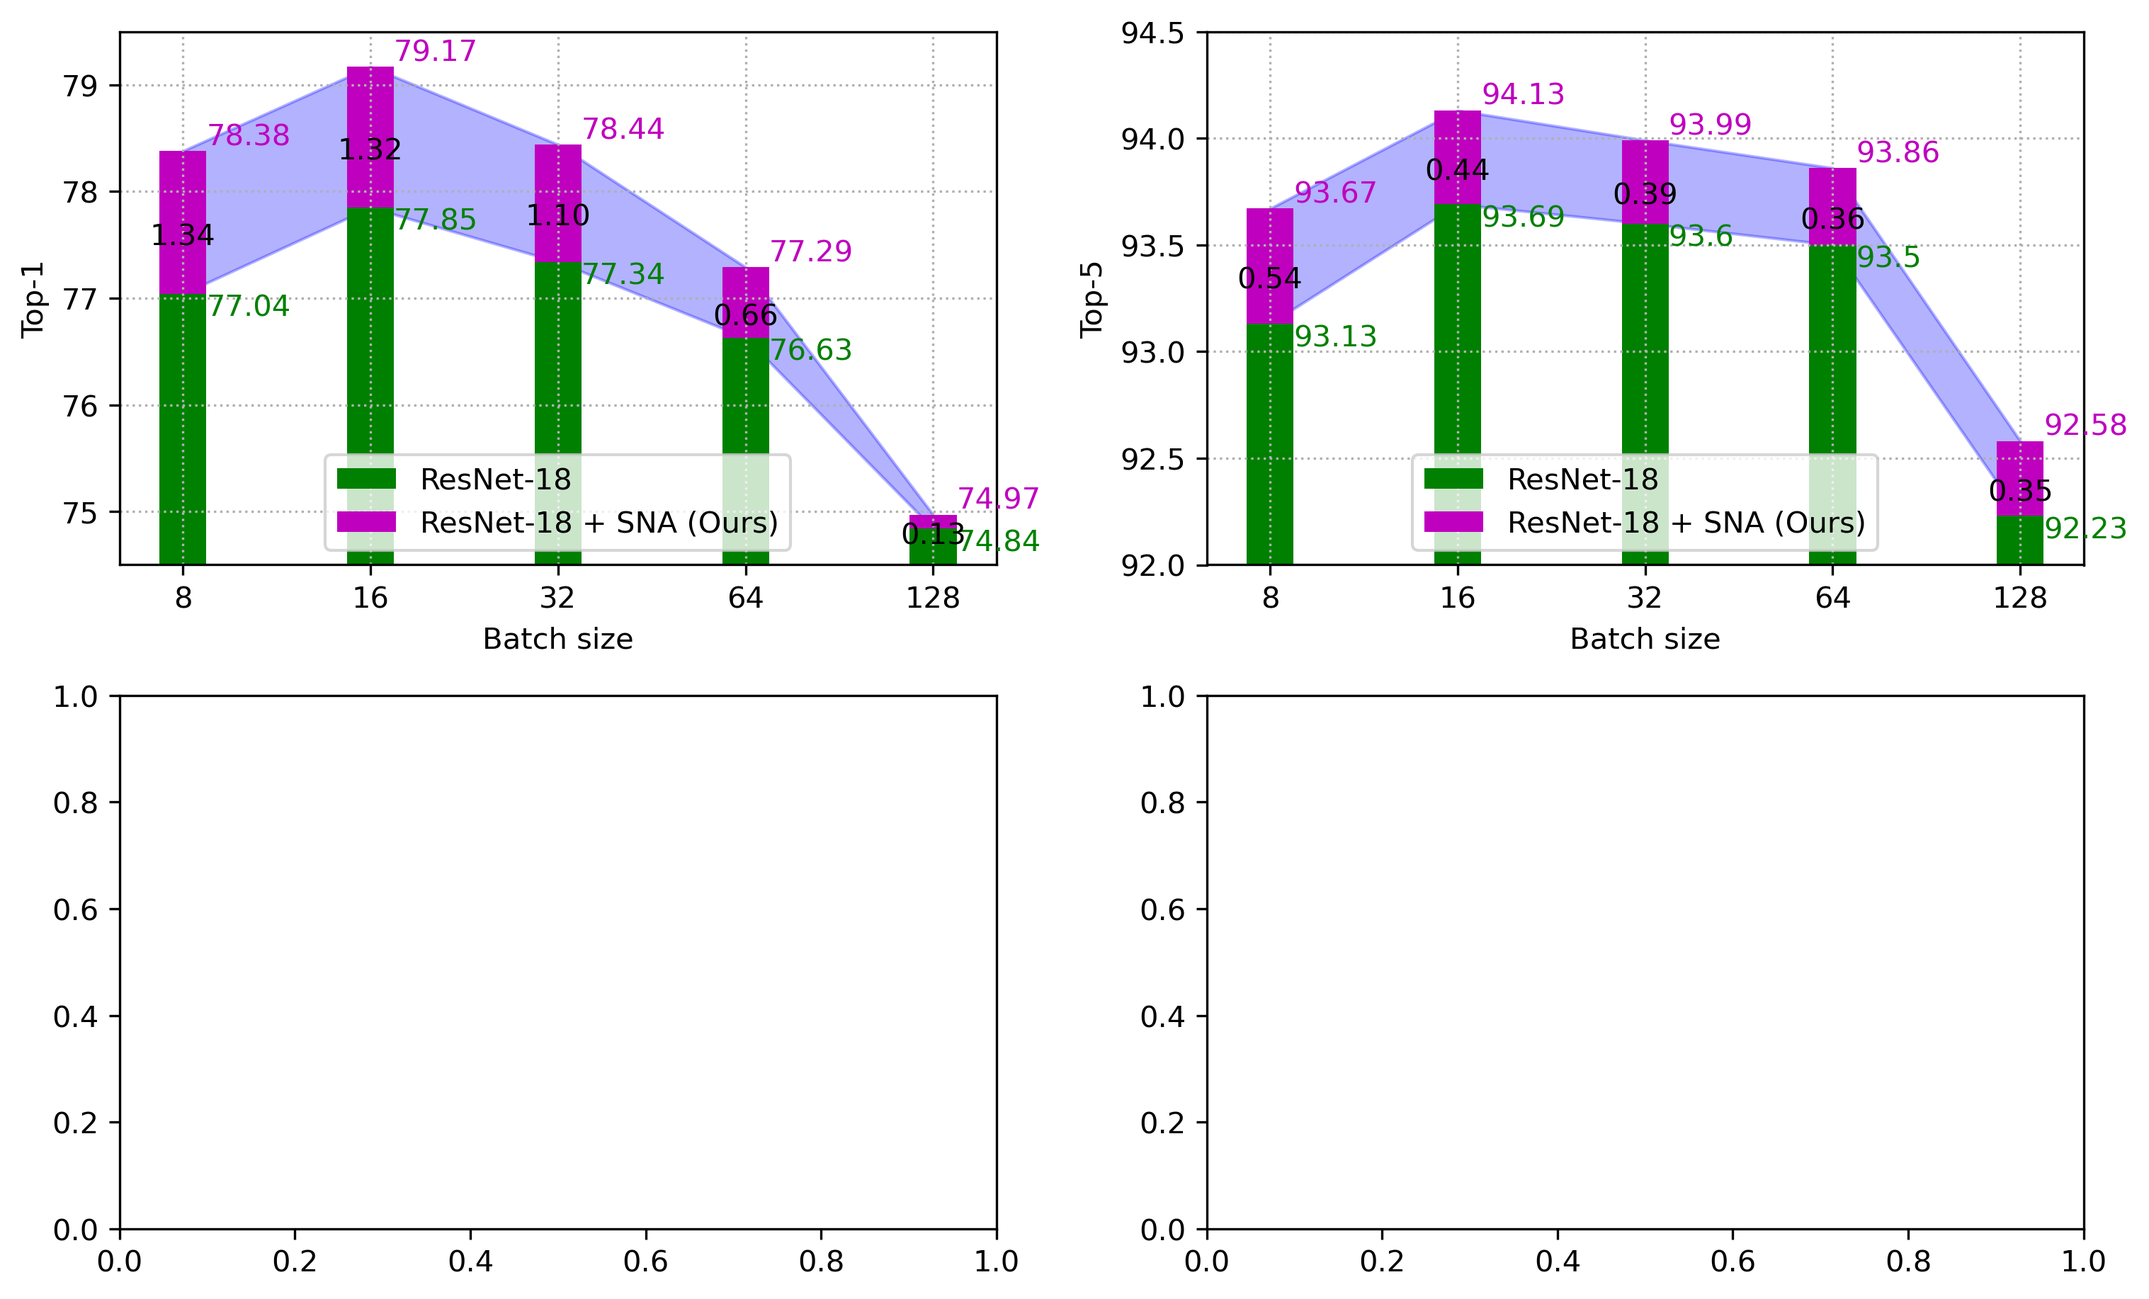
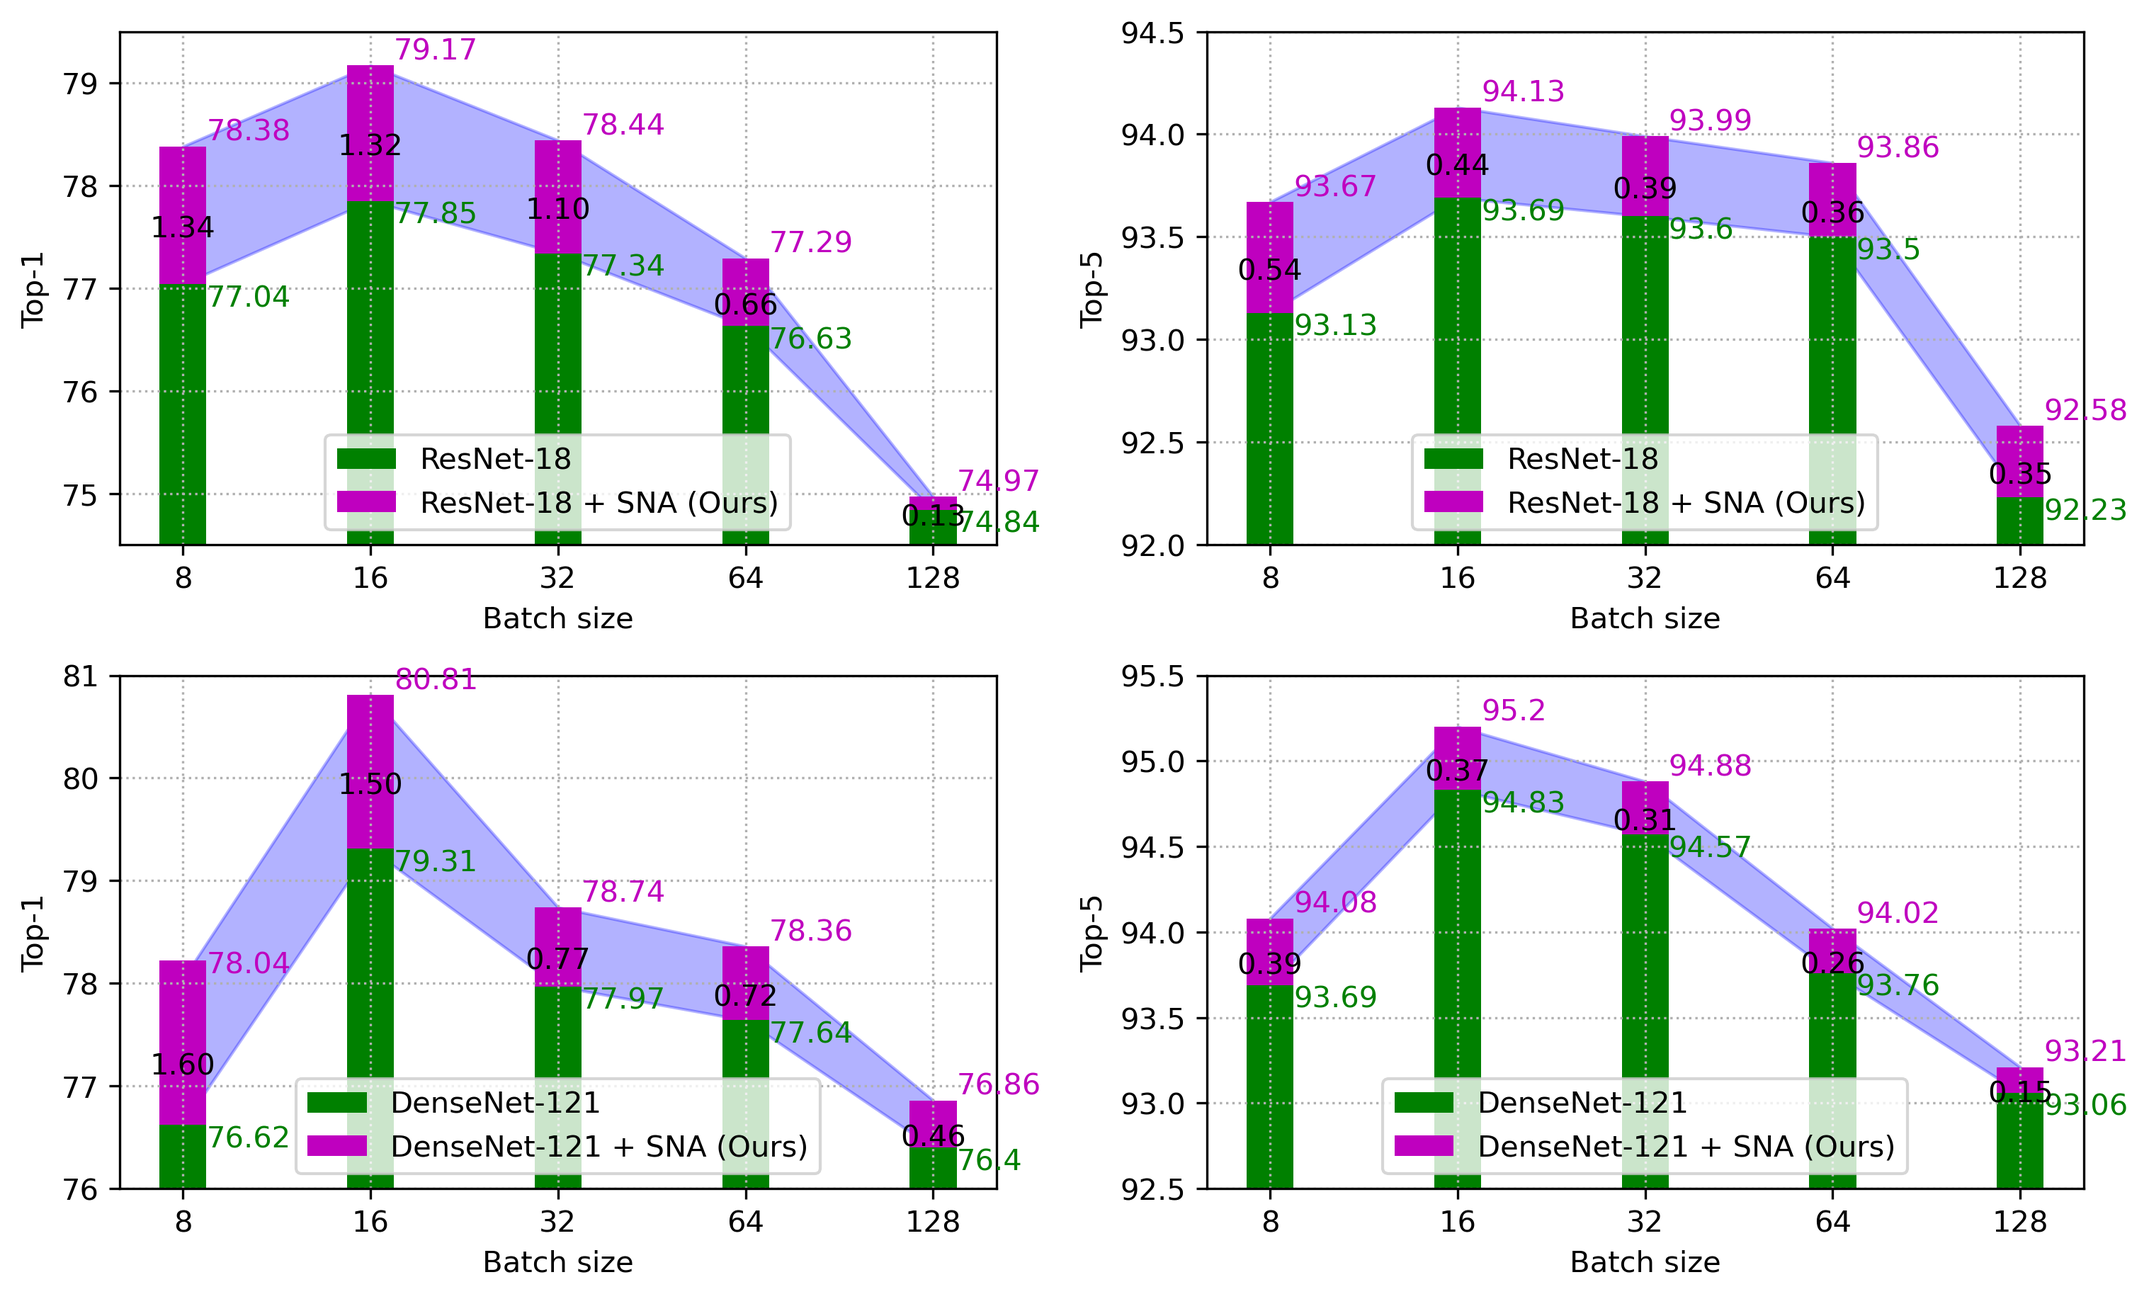
1016

diff --git a/utils/cifar_batch.py b/utils/cifar_batch.py
@@ -32,6 +32,7 @@ def vis_batch_performance():
     x1 = np.arange(len(x_ticks))
     barWidth = 0.25
     x2 = [x + barWidth for x in x1]
+
     #ResNet-top1
     resnet_top1 = [77.04, 77.85, 77.34, 76.63, 74.84] #y_axies
     resnet_sna_top1 = [78.38, 79.17, 78.44, 77.29, 74.97]
@@ -40,6 +41,16 @@ def vis_batch_performance():
     resnet_top5 = [93.13, 93.69, 93.60, 93.50, 92.23] #y_axies
     resnet_sna_top5 = [93.67, 94.13, 93.99, 93.86, 92.58]
     gain_top5 = [0.54, 0.44, 0.39, 0.36, 0.35]
+
+    #DenseNet-top1
+    densenet_top1 = [76.62, 79.31, 77.97, 77.64, 76.40] #y_axies
+    densenet_sna_top1 = [78.04, 80.81, 78.74, 78.36, 76.86]
+    densenet_gain_top1 = [1.6, 1.5, 0.77, 0.72, 0.46]
+    #DenseNet-top5
+    densenet_top5 = [93.69, 94.83, 94.57, 93.76, 93.06] #y_axies
+    densenet_sna_top5 = [94.08, 95.20, 94.88, 94.02, 93.21]
+    densenet_gain_top5 = [0.39, 0.37, 0.31, 0.26, 0.15]
+
 
     fig, axes = plt.subplots(2, 2, constrained_layout=True, figsize=(10,6)) #
 
@@ -61,7 +72,7 @@ def vis_batch_performance():
     axes[0,0].grid(b=True, ls=':')
     axes[0,0].legend(loc = 'lower center') #upper center, lower left
 
-    #plot resnet-top1
+    #plot resnet-top5
     axes[0,1].bar(x1, resnet_top5, color='g', width=barWidth, label='ResNet-18')
     for a, b in zip(x1, resnet_top5):
         axes[0,1].text(a+barWidth/2, b, b, ha='left', va='top', color='g')
@@ -78,6 +89,42 @@ def vis_batch_performance():
     axes[0,1].set_ylim(92, 94.50)
     axes[0,1].grid(b=True, ls=':')
     axes[0,1].legend(loc = 'lower center') #upper center, lower left
+
+    #plot densenet-top1
+    axes[1,0].bar(x1, densenet_top1, color='g', width=barWidth, label='DenseNet-121')
+    for a, b in zip(x1, densenet_top1):
+        axes[1,0].text(a+barWidth/2, b, b, ha='left', va='top', color='g')
+    axes[1,0].bar(x1, densenet_gain_top1, color='m', width=barWidth, bottom=densenet_top1, label='DenseNet-121 + SNA (Ours)')
+    for a, b in zip(x1, densenet_sna_top1):
+        axes[1,0].text(a+barWidth/2, b, b, ha='left', va='bottom', color='m')
+    for a, b, c, d in zip(x1, densenet_gain_top1, densenet_top1, densenet_sna_top1):
+        axes[1,0].text(a, (c+d)/2, '%.2f'%(b), ha='center', va='top', color='k')
+    axes[1,0].fill_between(x1, densenet_top1, densenet_sna_top1, color='b', alpha=0.3)
+    axes[1,0].set_xlabel('Batch size')
+    axes[1,0].set_xticks(x1)
+    axes[1,0].set_xticklabels(x_ticks)
+    axes[1,0].set_ylabel('Top-1')
+    axes[1,0].set_ylim(76.0,81.0)
+    axes[1,0].grid(b=True, ls=':')
+    axes[1,0].legend(loc = 'lower center') #upper center, lower left
+
+    #plot densenet-top5
+    axes[1,1].bar(x1, densenet_top5, color='g', width=barWidth, label='DenseNet-121')
+    for a, b in zip(x1, densenet_top5):
+        axes[1,1].text(a+barWidth/2, b, b, ha='left', va='top', color='g')
+    axes[1,1].bar(x1, densenet_gain_top5, color='m', width=barWidth, bottom=densenet_top5, label='DenseNet-121 + SNA (Ours)')
+    for a, b in zip(x1, densenet_sna_top5):
+        axes[1,1].text(a+barWidth/2, b, b, ha='left', va='bottom', color='m')
+    for a, b, c, d in zip(x1, densenet_gain_top5, densenet_top5, densenet_sna_top5):
+        axes[1,1].text(a, (c+d)/2, '%.2f'%(b), ha='center', va='top', color='k')
+    axes[1,1].fill_between(x1, densenet_top5, densenet_sna_top5, color='b', alpha=0.3)
+    axes[1,1].set_xlabel('Batch size')
+    axes[1,1].set_xticks(x1)
+    axes[1,1].set_xticklabels(x_ticks)
+    axes[1,1].set_ylabel('Top-5')
+    axes[1,1].set_ylim(92.50, 95.50)
+    axes[1,1].grid(b=True, ls=':')
+    axes[1,1].legend(loc = 'lower center') #upper center, lower left
 
     #save
     fig.savefig('/data/pycode/SFSAttention/imgs/cifar_batch.png', dpi=300, bbox_inches='tight')

diff --git a/main_vincxr_cls.py b/main_vincxr_cls.py
@@ -27,17 +27,17 @@ from tensorboardX import SummaryWriter
 import seaborn as sns
 #define by myself
 from utils.common import count_bytes, compute_AUCs
-from nets.resnet_cls import resnet18
+from nets.resnet import resnet18
 from nets.densenet import densenet121
 from dsts.vincxr_cls import get_box_dataloader_VIN
 #config
 os.environ['CUDA_VISIBLE_DEVICES'] = "0,1,2,3,4,5,6,7"
-max_epoches = 50
-BATCH_SIZE = 256
+max_epoches = 50 #30
+BATCH_SIZE = 32 #256 #32*8
 CLASS_NAMES = ['No finding', 'Aortic enlargement', 'Atelectasis', 'Calcification','Cardiomegaly', 'Consolidation', 'ILD', 'Infiltration', \
                'Lung Opacity', 'Nodule/Mass', 'Other lesion', 'Pleural effusion', 'Pleural thickening', 'Pneumothorax', 'Pulmonary fibrosis']
-CKPT_PATH = '/data/pycode/SFConv/ckpts/vincxr_cls_densenet.pkl'
-
+CKPT_PATH = '/data/pycode/SFSAttention/ckpts/vincxr_cls_densenet_aa.pkl'
+#nohup python main_vincxr_cls.py > logs/vincxr_cls_densenet_aa.log 2>&1 &
 def Train():
     print('********************load data********************')
     train_loader = get_box_dataloader_VIN(batch_size=BATCH_SIZE, shuffle=True, num_workers=8)
@@ -47,7 +47,7 @@ def Train():
     print('********************load data succeed!********************')
 
     print('********************load model********************')
-    model = resnet18(pretrained=False, num_classes=len(CLASS_NAMES))
+    model = densenet121(pretrained=False, num_classes=len(CLASS_NAMES))
     if os.path.exists(CKPT_PATH):
         checkpoint = torch.load(CKPT_PATH)
         model.load_state_dict(checkpoint) #strict=False
@@ -78,7 +78,6 @@ def Train():
                 optimizer_model.zero_grad()
                 loss_tensor = criterion.forward(var_out, var_label) 
                 loss_tensor.backward()
-                weightdecay(model, coef=1E-4) #weightdecay for factorized_conv
                 optimizer_model.step()
                 #show 
                 loss_train.append(loss_tensor.item())
@@ -120,12 +119,12 @@ def Train():
 
 def Test():
     print('********************load data********************')
-    test_loader = get_box_dataloader_VIN(batch_size=32, shuffle=False, num_workers=1)
+    test_loader = get_box_dataloader_VIN(batch_size=32, shuffle=False, num_workers=8)
     print ('==>>> total test batch number: {}'.format(len(test_loader)))
     print('********************load data succeed!********************')
 
     print('********************load model********************')
-    model = resnet18(pretrained=False, num_classes=len(CLASS_NAMES)).cuda()
+    model = densenet121(pretrained=False, num_classes=len(CLASS_NAMES)).cuda()
     if os.path.exists(CKPT_PATH):
         checkpoint = torch.load(CKPT_PATH)
         model.load_state_dict(checkpoint) #strict=False
@@ -161,8 +160,8 @@ def Test():
         print('The AUROC of {} is {:.4f}'.format(CLASS_NAMES[i], AUROCs[i]))
     print('The average AUROC is {:.4f}'.format(np.mean(AUROCs)))
     #save
-    np.save('/data/pycode/SFSAttention/logs/resnet_sna_gt.npy',gt.numpy()) #np.load()
-    np.save('/data/pycode/SFSAttention/logs/resnet_sna_pd.npy',pred.numpy())
+    np.save('/data/pycode/SFSAttention/logs/cxr_cls/densenet_aa_gt.npy',gt.numpy()) #np.load()
+    np.save('/data/pycode/SFSAttention/logs/cxr_cls/densenet_aa_pd.npy',pred.numpy())
 
 def main():
     Train()

diff --git a/utils/cxr_auroc.py b/utils/cxr_auroc.py
@@ -42,31 +42,31 @@ def vis_auroc():
     class_names=['No finding', 'Aortic enlargement', 'Atelectasis', 'Calcification','Cardiomegaly', 'Consolidation', 'Interstitial lung disease', \
                 'Infiltration', 'Lung Opacity', 'Nodule/Mass', 'Other lesion', 'Pleural effusion', 'Pleural thickening', 'Pneumothorax', 'Pulmonary fibrosis']
     model_names=['DenseNet-121', 'DenseNet-121+SE', 'DenseNet-121+ECA', 'DenseNet-121+AA', 'DenseNet-121+SNA(Ours)']
-    root = '/data/pycode/SFSAttention/logs/'
+    root = '/data/pycode/SFSAttention/logs/cxr_cls/'
 
     fig, axes = plt.subplots(3,5, constrained_layout=True, figsize=(15,9))
     color_name =['b','y','c','g','r'] #color ref: https://www.cnblogs.com/darkknightzh/p/6117528.html
 
-    for i in range(len(15)):
+    for i in range(len(class_names)):
         m = i // 5 
         n = i % 5
 
         gt, pd = [], []
-        gt.append(np.load(root + 'resnet_gt.npy')[:,i])
-        pd.append(np.load(root + 'resnet_pd.npy')[:,i])
-        gt.append(np.load(root + 'resnet_se_gt.npy')[:,i])
-        pd.append(np.load(root + 'resnet_se_pd.npy')[:,i])
-        gt.append(np.load(root + 'resnet_eca_gt.npy')[:,i])
-        pd.append(np.load(root + 'resnet_eca_pd.npy')[:,i])
-        gt.append(np.load(root + 'resnet_aa_gt.npy')[:,i])
-        pd.append(np.load(root + 'resnet_aa_pd.npy')[:,i])
-        gt.append(np.load(root + 'resnet_sna_gt.npy')[:,i])
-        pd.append(np.load(root + 'resnet_sna_pd.npy')[:,i])
+        gt.append(np.load(root + 'densenet_gt.npy')[:,i])
+        pd.append(np.load(root + 'densenet_pd.npy')[:,i])
+        gt.append(np.load(root + 'densenet_se_gt.npy')[:,i])
+        pd.append(np.load(root + 'densenet_se_pd.npy')[:,i])
+        gt.append(np.load(root + 'densenet_eca_gt.npy')[:,i])
+        pd.append(np.load(root + 'densenet_eca_pd.npy')[:,i])
+        gt.append(np.load(root + 'densenet_aa_gt.npy')[:,i])
+        pd.append(np.load(root + 'densenet_aa_pd.npy')[:,i])
+        gt.append(np.load(root + 'densenet_sna_gt.npy')[:,i])
+        pd.append(np.load(root + 'densenet_sna_pd.npy')[:,i])
 
         for j in range(len(model_names)):
             fpr, tpr, threshold = roc_curve(np.array(gt[j]), np.array(pd[j]))
             auc_score = auc(fpr, tpr)
-            axes[m,n].plot(fpr, tpr, c = color_name[j], ls = '--', label = u'{}-{:.4f}'.format(model_names[j],auc_score))
+            axes[m,n].plot(fpr, tpr, c = color_name[j], ls = '--', label = u'{}-{:.2f}'.format(model_names[j],auc_score*100))
 
         axes[m,n].plot((0, 1), (0, 1), c = '#808080', lw = 1, ls = '--', alpha = 0.7)
         axes[m,n].set_xlim((-0.01, 1.02))

diff --git a/dsts/vincxr_det.py b/dsts/vincxr_det.py
@@ -77,7 +77,7 @@ class DatasetGenerator(Dataset):
                	   'Other lesion':10, 'Pleural effusion':11, 'Pleural thickening':12, 'Pneumothorax':13, 'Pulmonary fibrosis':14}
 
     def _transform_tensor(self, img):
-        transform_seq = transforms.Compose([transforms.Resize((256,256)),transforms.ToTensor()])
+        transform_seq = transforms.Compose([transforms.Resize((224,224)),transforms.ToTensor()])
         return transform_seq(img)
 
     # COCO： [x1,y1,w,h] 
@@ -122,15 +122,15 @@ class DatasetGenerator(Dataset):
         target["image_id"] = torch.as_tensor(index, dtype=torch.int64)
         target["iscrowd"] = torch.zeros((len(shapes),), dtype=torch.int64)
         boxes, labels, masks, areas = [],  [],  [],  []
-        x_scale = 256/width
-        y_scale = 256/height
+        x_scale = 224/width
+        y_scale = 224/height
         for shape in shapes:
             label = shape[0]
             points = shape[3:]
             points = [points[0]*x_scale, points[1]*y_scale, points[2]*x_scale, points[3]*y_scale] #resize box coordinates to (256,256)
             boxes.append(self._get_box(points))
             labels.append(int(self.classname_to_id[str(label)]))
-            masks.append(self._get_seg(points, 256, 256))
+            masks.append(self._get_seg(points, 224, 224))
             areas.append(self._get_area(points))
         target["boxes"] = torch.as_tensor(boxes, dtype=torch.float32)
         target["labels"] = torch.as_tensor(labels, dtype=torch.int64) 
@@ -159,14 +159,14 @@ def get_box_dataloader_VIN_None(batch_size, shuffle, num_workers):
     return data_loader_box_train, data_loader_box_test
 """
 def get_box_dataloader_VIN(batch_size, shuffle, num_workers):
-    vin_csv_file = '/data/pycode/SFConv/dsts/train.csv'
+    vin_csv_file = '/data/pycode/SFSAttention/dsts/train.csv'
     vin_image_dir = '/data/fjsdata/Vin-CXR/train_val_jpg/'
   
     if shuffle==True: 
-        with open("/data/pycode/SFConv/dsts/trKeys.txt", "rb") as fp:   # Unpickling
+        with open("/data/pycode/SFSAttention/dsts/trKeys.txt", "rb") as fp:   # Unpickling
             key_subset = pickle.load(fp)
     else:
-        with open("/data/pycode/SFConv/dsts/teKeys.txt", "rb") as fp:   # Unpickling
+        with open("/data/pycode/SFSAttention/dsts/teKeys.txt", "rb") as fp:   # Unpickling
             key_subset = pickle.load(fp)
 
     dataset_box = DatasetGenerator(path_to_img_dir=vin_image_dir, path_to_dataset_file=vin_csv_file, bin_keys=key_subset)

diff --git a/dsts/vincxr_cls.py b/dsts/vincxr_cls.py
@@ -89,7 +89,7 @@ class DatasetGenerator(Dataset):
         self.label_list = label_list
         
     def _transform_tensor(self, img):
-        transform_seq = transforms.Compose([transforms.Resize((256,256)),transforms.ToTensor()])
+        transform_seq = transforms.Compose([transforms.Resize((224,224)),transforms.ToTensor()])
         return transform_seq(img)
 
     def __getitem__(self, index):
@@ -101,8 +101,8 @@ class DatasetGenerator(Dataset):
         """
         #show samples
         #print(pd.value_counts(self.label_list))
-        for i in range(len(self.CLASS_NAMES)):
-            print('The number of {} is {}'.format(self.CLASS_NAMES[i], np.array(self.label_list)[:,i].sum()))
+        #for i in range(len(self.CLASS_NAMES)):
+        #    print('The number of {} is {}'.format(self.CLASS_NAMES[i], np.array(self.label_list)[:,i].sum()))
         #image
         key = self.image_list[index]
         img_path = self.image_dir + key + '.jpeg'
@@ -118,18 +118,18 @@ class DatasetGenerator(Dataset):
         return len(self.image_list)
 
 def get_box_dataloader_VIN(batch_size, shuffle, num_workers):
-    vin_csv_file = '/data/pycode/SFConv/dsts/train.csv'
+    vin_csv_file = '/data/pycode/SFSAttention/dsts/train.csv'
     vin_image_dir = '/data/fjsdata/Vin-CXR/train_val_jpg/'
   
     if shuffle==True: 
-        with open("/data/pycode//SFConv/dsts/trKeys.txt", "rb") as fp:   # Unpickling
+        with open("/data/pycode/SFSAttention/dsts/trKeys.txt", "rb") as fp:   # Unpickling
             key_subset = pickle.load(fp)
-        with open("/data/pycode//SFConv/dsts/trKeys_normal.txt", "rb") as fp:   # Unpickling
+        with open("/data/pycode/SFSAttention/dsts/trKeys_normal.txt", "rb") as fp:   # Unpickling
             key_subset_normal = pickle.load(fp)
     else:
-        with open("/data/pycode//SFConv/dsts/teKeys.txt", "rb") as fp:   # Unpickling
+        with open("/data/pycode/SFSAttention/dsts/teKeys.txt", "rb") as fp:   # Unpickling
             key_subset = pickle.load(fp)
-        with open("/data/pycode//SFConv/dsts/teKeys_normal.txt", "rb") as fp:   # Unpickling
+        with open("/data/pycode/SFSAttention/dsts/teKeys_normal.txt", "rb") as fp:   # Unpickling
             key_subset_normal = pickle.load(fp)
 
     dataset_box = DatasetGenerator(path_to_img_dir=vin_image_dir, path_to_dataset_file=vin_csv_file, bin_keys=key_subset+key_subset_normal)

diff --git a/nets/densenet.py b/nets/densenet.py
@@ -66,9 +66,9 @@ class _DenseLayer(nn.Module):
         self.memory_efficient = memory_efficient
 
         #optional attentions
-        #self.attlayer: SNALayer
+        self.attlayer: ECA_layer
         #self.add_module('attlayer', SELayer(growth_rate, reduction=16))
-        #self.add_module('attlayer', ECA_layer(channel=growth_rate, k_size=3))
+        self.add_module('attlayer', ECA_layer(channel=growth_rate, k_size=3))
         #self.add_module('attlayer', SNALayer(channels=growth_rate))
 
     def bn_function(self, inputs: List[Tensor]) -> Tensor:
@@ -120,7 +120,7 @@ class _DenseLayer(nn.Module):
                                      training=self.training)
 
         #attention layer
-        #new_features = self.attlayer(new_features)
+        new_features = self.attlayer(new_features)
 
         return new_features
 
@@ -195,12 +195,12 @@ class DenseNet(nn.Module):
 
         # First convolution
         self.features = nn.Sequential(OrderedDict([
-            #('conv0', nn.Conv2d(3, num_init_features, kernel_size=7, stride=2, padding=3, bias=False)), #imagenet
-            ('conv0', nn.Conv2d(3, num_init_features, kernel_size=3, stride=1, padding=1, bias=False)), #cifar
+            ('conv0', nn.Conv2d(3, num_init_features, kernel_size=7, stride=2, padding=3, bias=False)), #imagenet
+            #('conv0', nn.Conv2d(3, num_init_features, kernel_size=3, stride=1, padding=1, bias=False)), #cifar
             ('norm0', nn.BatchNorm2d(num_init_features)),
             ('relu0', nn.ReLU(inplace=True)),
-            #('pool0', nn.MaxPool2d(kernel_size=3, stride=2, padding=1)), #imagenet
-            ('attlayer', SNALayer(channels=num_init_features)),#attention layer
+            ('pool0', nn.MaxPool2d(kernel_size=3, stride=2, padding=1)), #imagenet
+            #('attlayer', SNALayer(channels=num_init_features)),#attention layer
         ]))
 
         # Each denseblock
@@ -226,7 +226,8 @@ class DenseNet(nn.Module):
         self.features.add_module('norm5', nn.BatchNorm2d(num_features))
 
         # Linear layer
-        self.classifier = nn.Linear(num_features, num_classes)
+        #self.classifier = nn.Linear(num_features, num_classes) #for celoss
+        self.classifier = nn.Sequential(nn.Linear(num_features, num_classes), nn.Sigmoid()) #for bceloss
 
         # Official init from torch repo.
         for m in self.modules():

diff --git a/utils/common.py b/utils/common.py
@@ -16,6 +16,12 @@ import torch
 from PIL import Image
 import matplotlib.pyplot as plt
 import imageio
+import torch.nn as nn
+import torchvision
+import torch.nn.functional as F
+from sklearn.metrics import roc_auc_score
+from sklearn.metrics import roc_curve, auc
+from sklearn.metrics import confusion_matrix
 
 def count_bytes(file_size):
     '''
